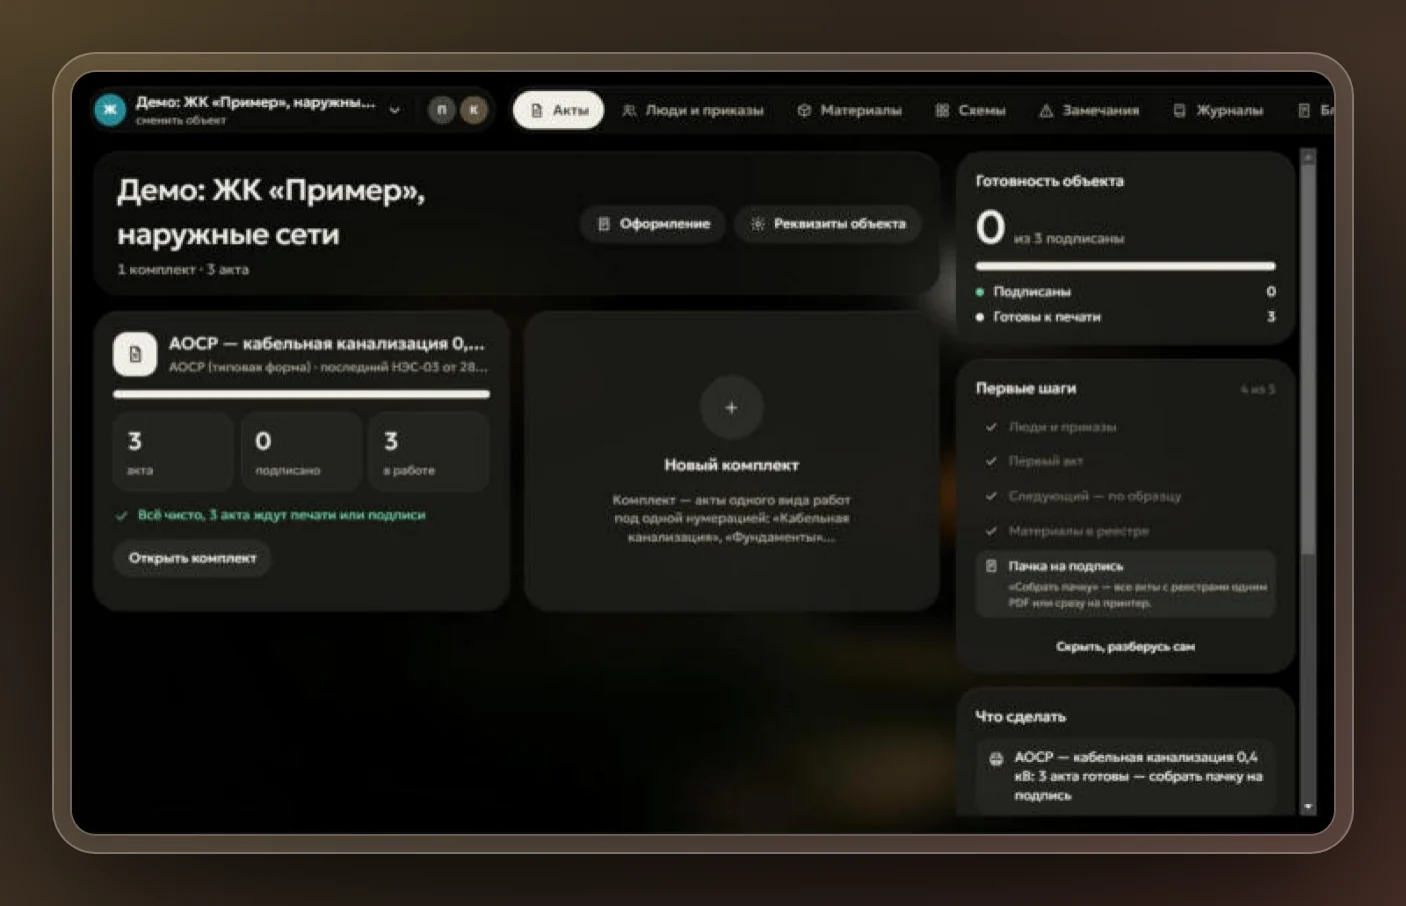
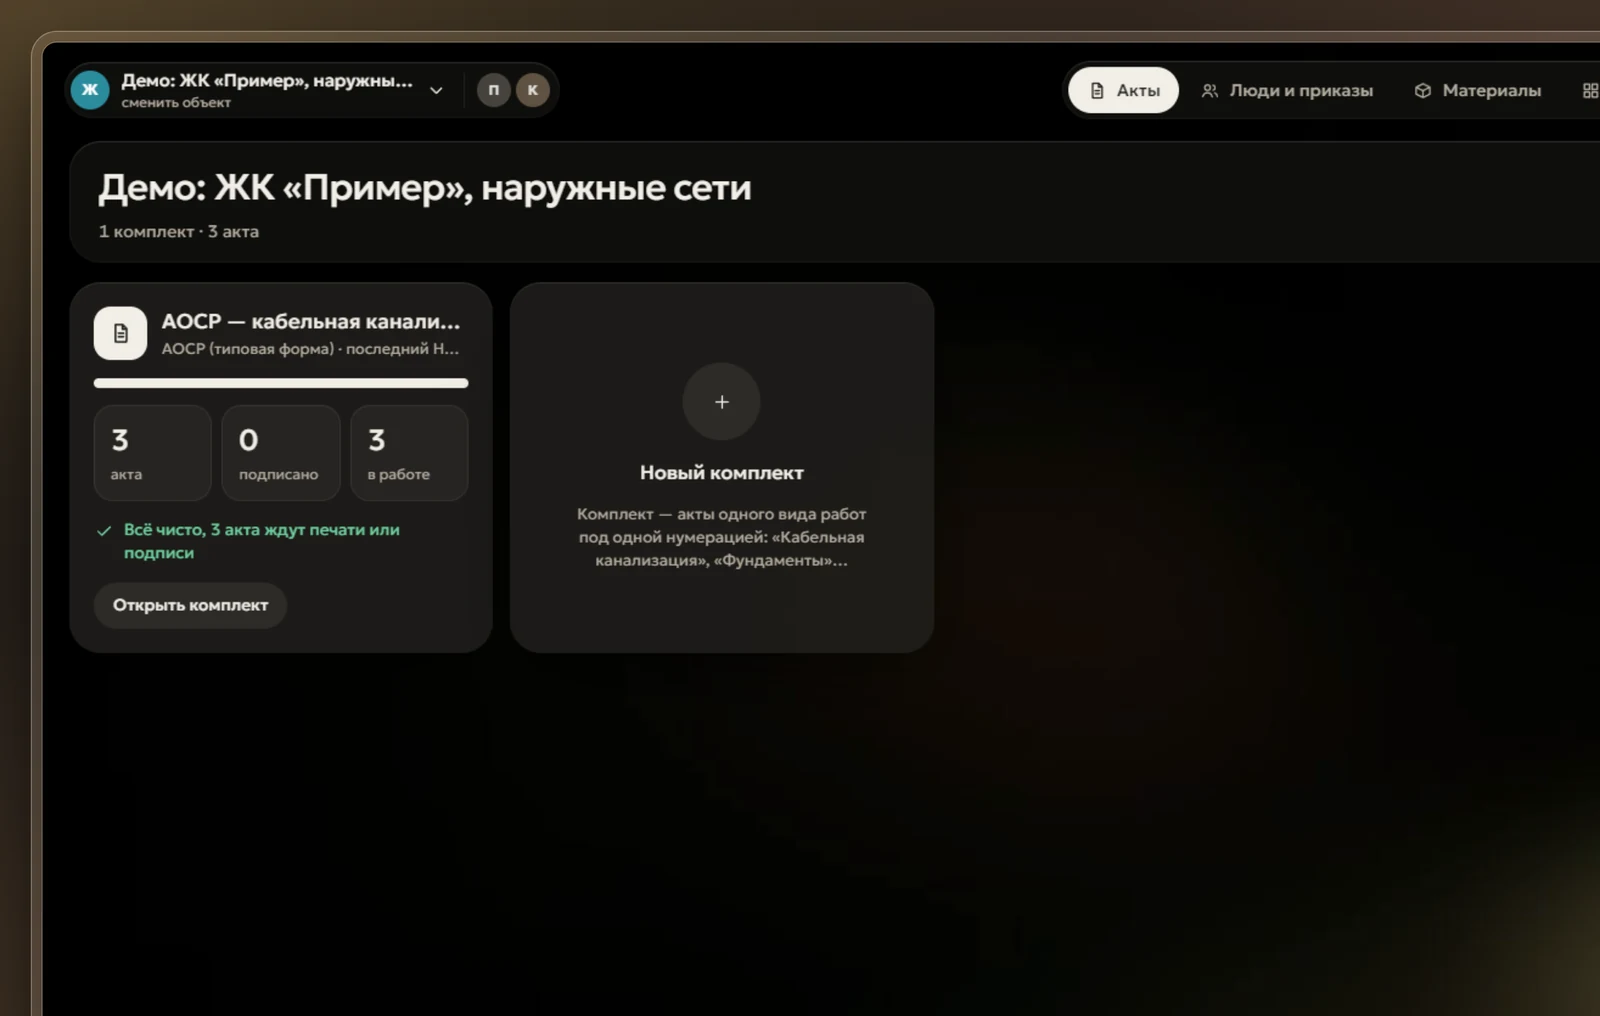
Actum: новые скриншоты в высоком качестве, обрезка по рабочей области
Claude-Session: https://claude.ai/code/session_01FgYTfBtVFhRN3MKitbGXhN

diff --git a/actum/index.html b/actum/index.html
@@ -120,19 +120,19 @@
       </div>
       <div class="tabs__track">
         <figure class="tabs__panel" role="tabpanel" id="apanel-1" aria-labelledby="atab-1">
-          <img class="shot" src="../assets/shots/actum-object-900.webp" srcset="../assets/shots/actum-object-900.webp 900w, ../assets/shots/actum-object-1600.webp 1406w" sizes="(min-width: 860px) 55vw, 92vw" width="1406" height="906" loading="lazy" decoding="async" alt="Экран объекта в Actum: комплект АОСР с тремя актами, готовность объекта и список первых шагов.">
+          <img class="shot" src="../assets/shots/actum-object-900.webp?v=2" srcset="../assets/shots/actum-object-900.webp?v=2 900w, ../assets/shots/actum-object-1600.webp?v=2 1600w" sizes="(min-width: 860px) 55vw, 92vw" width="1600" height="1016" loading="lazy" decoding="async" alt="Экран объекта в Actum: комплект АОСР с тремя актами, готовность объекта и список первых шагов.">
           <figcaption><strong>Объект.</strong> Комплекты, сколько актов подписано и что сделать дальше.</figcaption>
         </figure>
         <figure class="tabs__panel" role="tabpanel" id="apanel-2" aria-labelledby="atab-2">
-          <img class="shot" src="../assets/shots/actum-act-900.webp" srcset="../assets/shots/actum-act-900.webp 900w, ../assets/shots/actum-act-1600.webp 1406w" sizes="(min-width: 860px) 55vw, 92vw" width="1406" height="906" loading="lazy" decoding="async" alt="Акт № НЭС-03 в Actum: список актов, лист акта и замечание стройконтроля справа.">
+          <img class="shot" src="../assets/shots/actum-act-900.webp?v=2" srcset="../assets/shots/actum-act-900.webp?v=2 900w, ../assets/shots/actum-act-1600.webp?v=2 1600w" sizes="(min-width: 860px) 55vw, 92vw" width="1600" height="1016" loading="lazy" decoding="async" alt="Акт № НЭС-02 в Actum: список актов, лист акта и его состояние справа.">
           <figcaption><strong>Акт.</strong> Лист собирается рядом с формой. Если что-то не так, Actum скажет до печати, а не после.</figcaption>
         </figure>
         <figure class="tabs__panel" role="tabpanel" id="apanel-3" aria-labelledby="atab-3">
-          <img class="shot" src="../assets/shots/actum-people-900.webp" srcset="../assets/shots/actum-people-900.webp 900w, ../assets/shots/actum-people-1600.webp 1406w" sizes="(min-width: 860px) 55vw, 92vw" width="1406" height="906" loading="lazy" decoding="async" alt="Раздел «Люди и приказы»: представители всех сторон с приказами и датами.">
+          <img class="shot" src="../assets/shots/actum-people-900.webp?v=2" srcset="../assets/shots/actum-people-900.webp?v=2 900w, ../assets/shots/actum-people-1600.webp?v=2 1600w" sizes="(min-width: 860px) 55vw, 92vw" width="1600" height="1016" loading="lazy" decoding="async" alt="Раздел «Люди и приказы»: представители всех сторон с приказами и датами.">
           <figcaption><strong>Люди и приказы.</strong> Кто подписывает и с какого числа. Строка подписанта в акте собирается отсюда сама.</figcaption>
         </figure>
         <figure class="tabs__panel" role="tabpanel" id="apanel-4" aria-labelledby="atab-4">
-          <img class="shot" src="../assets/shots/actum-materials-900.webp" srcset="../assets/shots/actum-materials-900.webp 900w, ../assets/shots/actum-materials-1600.webp 1406w" sizes="(min-width: 860px) 55vw, 92vw" width="1406" height="906" loading="lazy" decoding="async" alt="Раздел «Материалы»: трубы, песок и сигнальная лента с паспортами, сертификатами и декларациями.">
+          <img class="shot" src="../assets/shots/actum-materials-900.webp?v=2" srcset="../assets/shots/actum-materials-900.webp?v=2 900w, ../assets/shots/actum-materials-1600.webp?v=2 1600w" sizes="(min-width: 860px) 55vw, 92vw" width="1600" height="1016" loading="lazy" decoding="async" alt="Раздел «Материалы»: трубы, песок и сигнальная лента с паспортами, сертификатами и декларациями.">
           <figcaption><strong>Материалы.</strong> Материалы с поставками и документами о качестве. Из них собирается реестр к акту.</figcaption>
         </figure>
       </div>

diff --git a/index.html b/index.html
@@ -141,7 +141,7 @@ if (!location.hash && window.scrollY < 40) document.documentElement.setAttribute
             </p>
           </div>
           <div class="strip__visual unveil">
-            <img class="shot" src="assets/shots/actum-people-900.webp" srcset="assets/shots/actum-people-900.webp 900w, assets/shots/actum-people-1600.webp 1406w" sizes="(min-width: 860px) 55vw, 92vw" width="1406" height="906" loading="lazy" decoding="async" alt="Раздел «Люди и приказы» в Actum: представители заказчика, генподрядчика, стройконтроля, проектировщика и исполнителя с приказами и датами, с которых они подписывают акты.">
+            <img class="shot" src="assets/shots/actum-people-900.webp?v=2" srcset="assets/shots/actum-people-900.webp?v=2 900w, assets/shots/actum-people-1600.webp?v=2 1600w" sizes="(min-width: 860px) 55vw, 92vw" width="1600" height="1016" loading="lazy" decoding="async" alt="Раздел «Люди и приказы» в Actum: представители заказчика, генподрядчика, стройконтроля, проектировщика и исполнителя с приказами и датами, с которых они подписывают акты.">
           </div>
         </article>
 
@@ -155,7 +155,7 @@ if (!location.hash && window.scrollY < 40) document.documentElement.setAttribute
             </p>
           </div>
           <div class="strip__visual unveil">
-            <img class="shot" src="assets/shots/actum-act-900.webp" srcset="assets/shots/actum-act-900.webp 900w, assets/shots/actum-act-1600.webp 1406w" sizes="(min-width: 860px) 55vw, 92vw" width="1406" height="906" loading="lazy" decoding="async" alt="Акт № НЭС-03 в Actum: слева список актов комплекта, по центру лист акта, справа его состояние и замечание стройконтроля. Внизу слева подсказка о том, что старые акты из Word можно перетащить в комплект.">
+            <img class="shot" src="assets/shots/actum-act-900.webp?v=2" srcset="assets/shots/actum-act-900.webp?v=2 900w, assets/shots/actum-act-1600.webp?v=2 1600w" sizes="(min-width: 860px) 55vw, 92vw" width="1600" height="1016" loading="lazy" decoding="async" alt="Акт № НЭС-02 в Actum: слева список актов комплекта, по центру лист акта, справа его состояние. Внизу слева подсказка о том, что старые акты из Word и Excel можно перетащить в комплект.">
           </div>
         </article>
 
